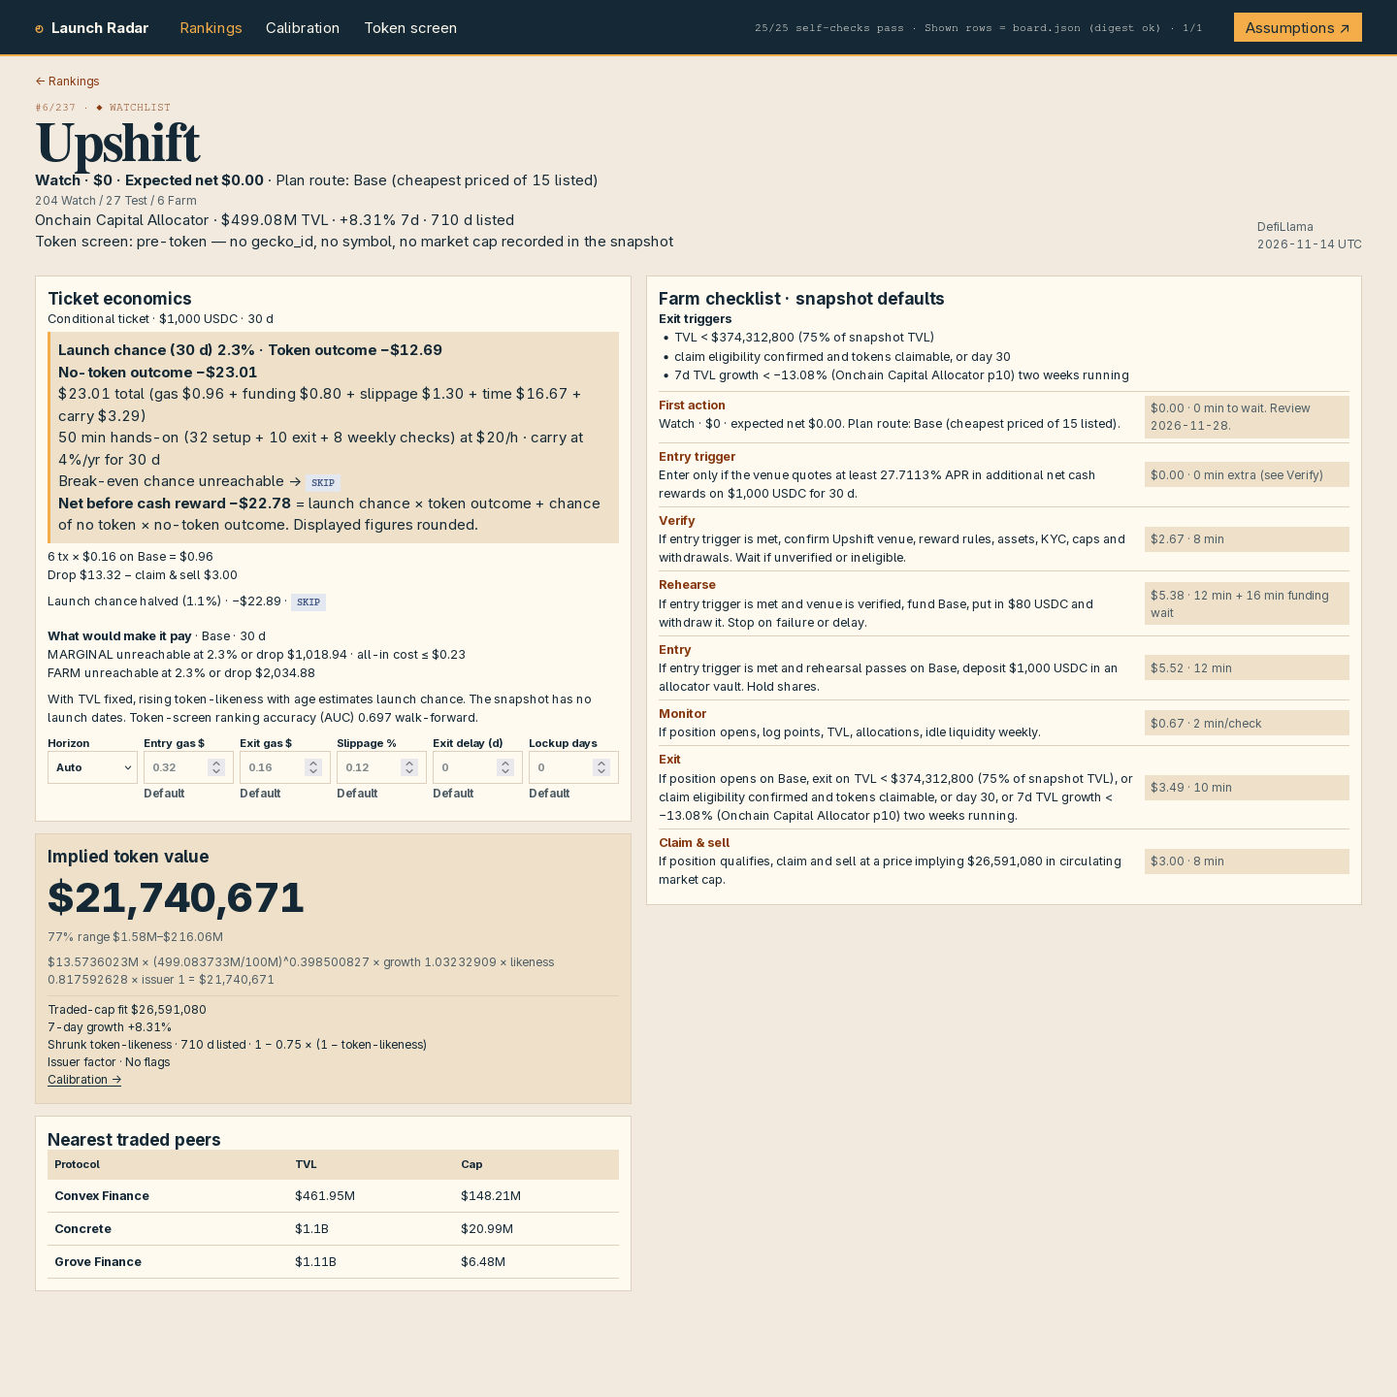
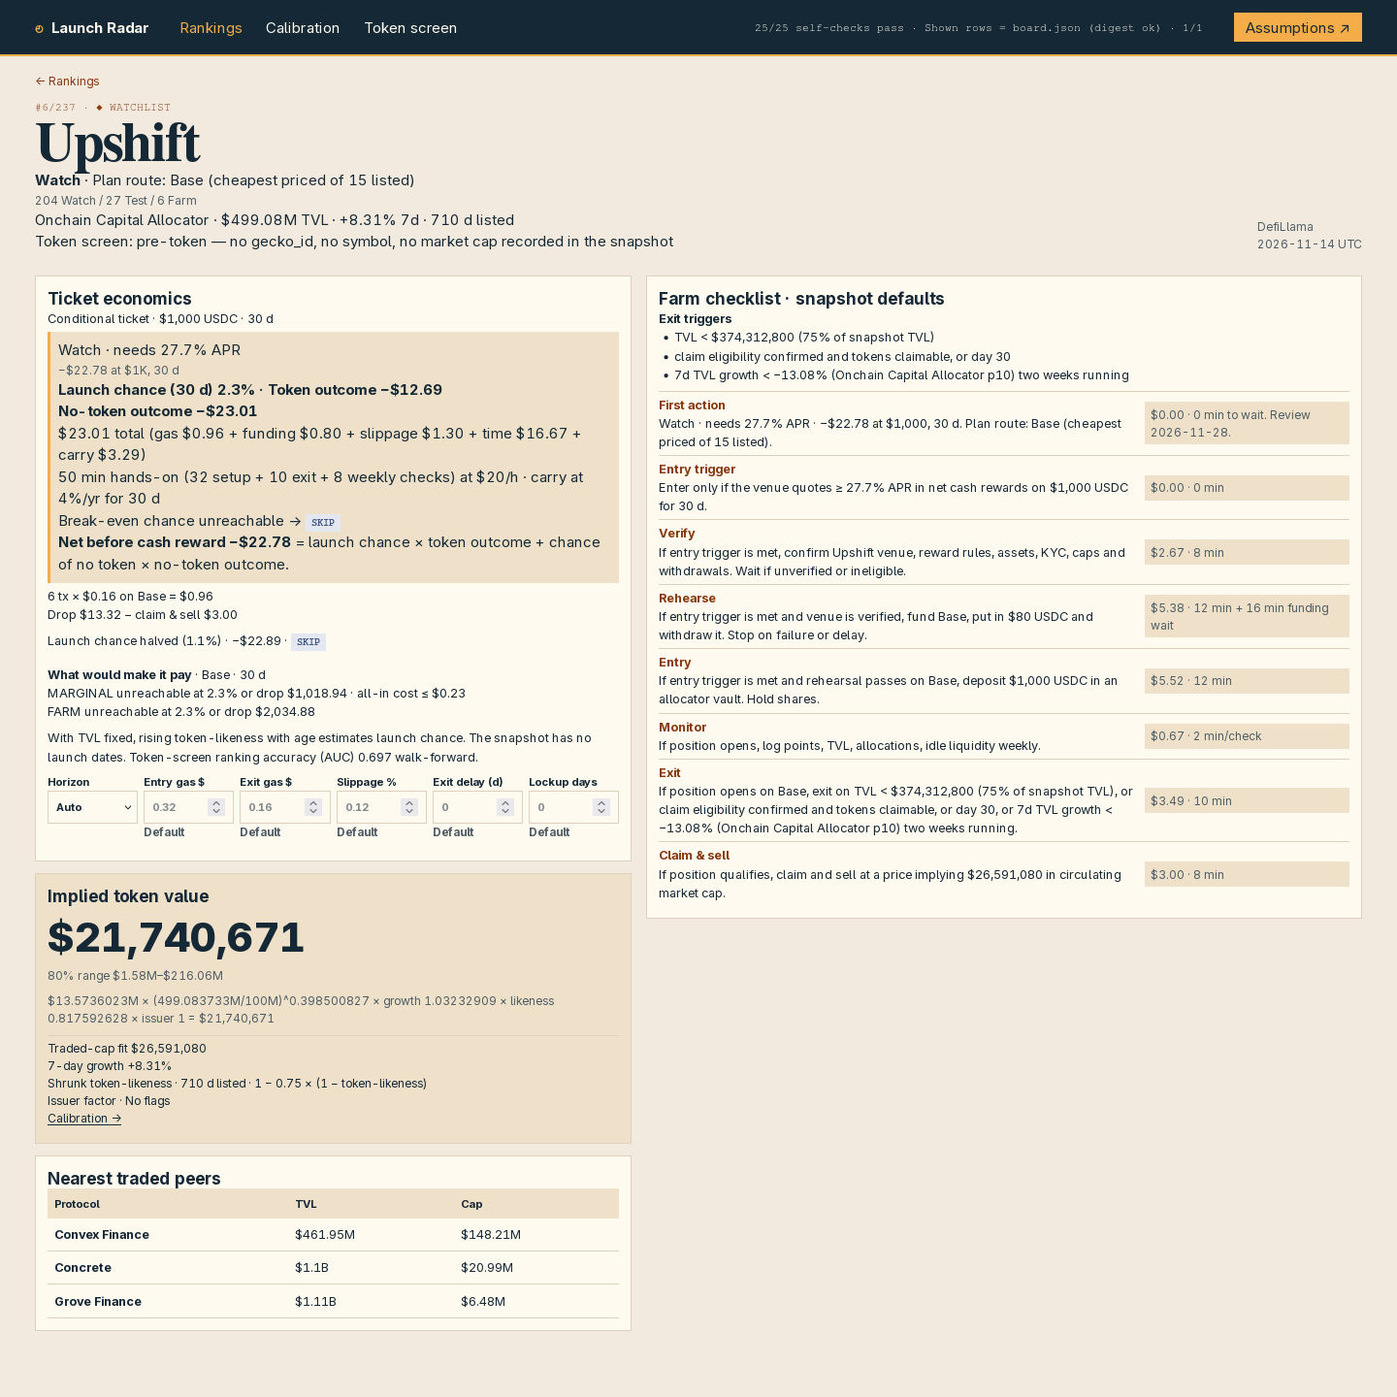
Watch rows show trigger and cost of entering now

Changed region(s): [[0.0, 0.25, 0.9688, 0.9375], [0.0625, 0.125, 0.375, 0.1562]]

diff --git a/dashboard/app.js b/dashboard/app.js
@@ -9,19 +9,17 @@ const html=(items,draw)=>items.map(draw).join(""),view=$("#view"),check=$("#chec
 	money=n=>signed(costUsd(n)),short=new Intl.NumberFormat("en-US",{style:"currency",currency:"USD",
 		notation:"compact",maximumFractionDigits:2}).format,usd=whole
 const dash="—",mult=n=>n==null?dash:n.toFixed(3)+"×",
-	sign=n=>n>0?"+":"",
-	chg=n=>n==null?dash:sign(n)+signed(n.toFixed(2))+"%",
+	chg=n=>n==null?dash:(n>0?"+":"")+signed(n.toFixed(2))+"%",
 	net=farmNet,decisionNet=n=>net(decisionUsd(n)),
 	esc=value=>String(value??"").replace(/[&<>"']/g,c=>({"&":"&amp;","<":"&lt;",">":"&gt;",'"':"&quot;","'":"&#39;"})[c])
 const {rows:rs,recs,counts:ns,verdicts,value,odds,assumptions:setup,board:{rows:board}}=model,
 	sameHash=digest(board)===boardDigest&&digest(manifest)===digest(exportManifest(board)),
 	{parameters:{horizons,riskFreeRate,hourlyUsd}}=setup,
-	auc=odds.validation,
-	showAuc=k=>auc[k].auc?.toFixed(3)??dash
+	showAuc=k=>odds.validation[k].auc?.toFixed(3)??dash
 const aucLabel="Token-screen ranking accuracy (AUC)",
 	likenessTest=`${aucLabel} ${showAuc("walk")} walk-forward`,
 	{headline,ablation,issuerNote,candidates,form,weight,ranges:{label,hits,n:rangeN}}=value,
-	rangeLabel=label==null?"Uncalibrated range":`${label}% range`,
+	rangeLabel=label==null?"Uncalibrated range":`${bandPercent}% range`,
 	groups=[["traded","traded"],["setAside","set aside"],["recorded","token, no cap"],["ranked","ranked"]],
 	choices=items=>["",...unique(items).sort()]
 const grades=keys(verdicts),boardCounts=actionCounts(verdicts),
@@ -63,7 +61,8 @@ const badge=v=>`<span class="badge ${v.toLowerCase()}">${v}</span>`,
 	pLink=(p,st)=>`<a class=protocol href="${href("detail",st,encodeURIComponent(p.slug))}">${esc(p.name)}</a>`,
 	calLink=st=>`<a class=evidence href="${href("calibration",st)}">Calibration →</a>`,
 	days=r=>r.ageDays==null?dash:integer(r.ageDays),
-	rowName=r=>esc(r.category||r.family)
+	rowName=r=>esc(r.category||r.family),
+	watchTerms=p=>watchTermsFor(p,short).join("<small>")+"</small>"
 const intro=(title,copy="",lead="",lbl="")=>`<header class=intro><div>${lbl}<h1>${title}</h1>${lead}<p>${copy}</div><small>DefiLlama<br>${esc(snap.as_of)} UTC</small></header>`,
 	missTitle="Median miss vs flat ratio",
 	panel=(kind,title,body)=>`<section class="panel ${kind}">${title?`<h2>${title}</h2>`:""}${body}</section>`,
@@ -74,7 +73,7 @@ const valueStats=`<p class=nested>Form chosen inside training only</p>
 		const {miss,flat,n}=headline[k]
 		return`<div><span>${lbl} · n=${n}</span><strong>${mult(miss)}</strong> / ${mult(flat)}${miss!==null&&miss>=flat?"<small>Flat ratio ties or wins.</small>":""}</div>`
 	})}</div>
-<p class=coverage>${rangeN?`Family holdout coverage · ${rangeLabel} (${hits}/${rangeN})`:"Range coverage unavailable"}</p>`
+<p class=coverage>${rangeN?`${rangeLabel} · Family holdout coverage ${label}% (${hits}/${rangeN})`:"Range coverage unavailable"}</p>`
 const tokenLinks=(st,separator="")=>groups.map(([k,lbl])=>
 	`<a href="${href("tokens",st,k)}"${st.route==="tokens"&&st.slug===k?' aria-current="page"':""}><b>${ns[k]}</b> ${lbl}</a>`).join(separator),
 	searchBox=st=>`<label>Search<input id=search type=search value="${esc(st.q)}" autocomplete=off></label>`,
@@ -121,8 +120,8 @@ function filtered({scope,family,chain,verdict,flag,tvl,q,sort,dir}){
 	})
 }
 const range=r=>r.map(short).join("–"),
-	valueRange=r=>`${rangeLabel} ${range(r[80])}`,
-	endpoints=rs.flatMap(({score,ranges})=>[score,...ranges[80]]),
+	valueRange=r=>`${rangeLabel} ${range(r[bandPercent])}`,
+	endpoints=rs.flatMap(({score,ranges})=>[score,...ranges[bandPercent]]),
 	logMin=log(min(...endpoints)),logSpan=log(max(...endpoints))-logMin||1,
 	barAt=n=>1+40*(log(n)-logMin)/logSpan
 function equation(r,format){
@@ -131,7 +130,7 @@ function equation(r,format){
 }
 function tableRow(r,st){
 	const {slug,score,tokenOdds,ranges,rank,plan:fp,watchlist,tvl_usd,change_7d}=r,
-		[lo,hi]=ranges[80].map(barAt)
+		[lo,hi]=ranges[bandPercent].map(barAt)
 	return`<tr data-slug="${esc(slug)}">
 <td class=rank>${rank} ${pick(r)}
 <th scope=row>${pLink(r,st)}${r.flags.length?" <span title='Issuer flag'>!</span>":""}
@@ -140,7 +139,7 @@ function tableRow(r,st){
 <td>${pct(tokenOdds,1)}<td>${short(tvl_usd)}
 <td><b class="${change_7d>0?"pos":change_7d<0?"neg":""}">${chg(change_7d)}</b>
 <td>${days(r)}
-<td>${badge(fp.verdict)}<td>${firstAction(fp,short," ")} <span class=first-net>${net(fp.net)}</span>${fp.capital?`<small>${fp.horizon} d</small>`:""}`
+<td>${badge(fp.verdict)}<td>${fp.candidate?watchTerms(fp.candidate):`${stages[fp.verdict]} ${short(fp.capital)} <b>${net(fp.net)}</b><small>${fp.horizon} d</small>`}`
 }
 function matchesExport(rank,slug,value,verdict,format){
 	const row=manifest?.[rank-1]
@@ -153,10 +152,10 @@ function verifyRows(rows,st){
 		total=rows.length,sorted=trs.length===total&&$(`[aria-sort=${ariaSort(st)}] #sort-${st.sort}`)
 			&&trs.every((tr,i)=>tr.dataset.slug===rows[i].slug)
 	const matched=count(trs,tr=>{
-		const [rank,,value,odds]=tr.cells,n=Number(rank.textContent)
+		const [rank,,value,odds]=tr.cells,n=Number(rank.textContent),{plan:p}=rs[n-1],cell=tr.lastElementChild
 		return matchesExport(n,tr.dataset.slug,value.firstElementChild.textContent,tr.querySelector(".badge")?.textContent,short)
 			&&odds.textContent===pct(board[n-1].token_odds,1)
-			&&tr.querySelector(".first-net").textContent===net(rs[n-1].plan.net)
+			&&(p.candidate?cell.innerHTML===watchTerms(p.candidate):cell.querySelector("b").textContent===net(p.net))
 	})
 	const pass=!!(sameHash&&sorted&&matched===total
 		&&$("#cover-counts").textContent===$("#rail-counts").textContent)
@@ -197,8 +196,8 @@ function drawCompare(st){
 		[cols.value[0],...rows.map(r=>usd(r.score))],
 		["First action",...rows.map(r=>firstAction(r.plan))],
 		[cols.verdict[0],...rows.map(r=>badge(r.plan.verdict))],
-		[netLabel,...rows.map(r=>net(r.plan.net))],
-		["Time / cost",...rows.map(({plan:p})=>`${p.handsOnMinutes??0} min hands-on · ${money(p.cost)}`)]
+		[netLabel,...rows.map(({plan:p})=>p.candidate?watchTerms(p.candidate):net(p.net))],
+		["Time / cost",...rows.map(({plan:p})=>p.candidate?dash:`${p.handsOnMinutes} min hands-on · ${money(p.cost)}`)]
 	]):""
 	for(const box of $$("input[name=compare]")){
 		box.checked=compared.has(+box.value)
@@ -217,7 +216,7 @@ const quoteFields=[
 	["delay","Exit delay (d)",36500],["lockup","Lockup days",36500]
 ],
 	maybeMoney=n=>n==null?"unreachable":money(n),
-	actionLine=p=>`${firstAction(p)} · ${netLabel} ${net(p.net)}`
+	actionLine=p=>firstAction(p)+(p.candidate?"":` · ${netLabel} ${net(p.net)}`)
 function cashFlows(fp,quote,action,edited=false){
 	const result=action.candidate??action
 	const {horizon,q,capital,noToken,withToken,pStar,gas,holding,drop,claimSell,verdict,net:gain}=result,
@@ -228,12 +227,13 @@ function cashFlows(fp,quote,action,edited=false){
 	return`${edited?`<p class=quote-action>With edited inputs · ${actionLine(action)}`:""}
 ${action.candidate?`<p class=conditional>Conditional ticket · ${esc(fp.quoteTicket(capital))} · ${horizon} d`:""}
 <div class=decision>
+${action.candidate?`<div class=watch-terms>${watchTerms(result)}</div>`:""}
 <p><b>Launch chance (${horizon} d) ${chance(q)} · Token outcome ${decisionNet(withToken)}</b>
 <p><b>No-token outcome ${decisionNet(noToken)}</b>
 <p>${farmCost(result)}
 <p>${farmTime(result)} at ${usd(hourlyUsd)}/h · carry at ${pct(riskFreeRate,0)}/yr for ${holding} d
 <p>Break-even chance ${breakEven(pStar)} → ${badge(verdict)}
-<p><b>${action.candidate?"Net before cash reward":netLabel} ${decisionNet(gain)}</b> = launch chance × token outcome + chance of no token × no-token outcome. Displayed figures rounded.</div>
+<p><b>${action.candidate?"Net before cash reward":netLabel} ${decisionNet(gain)}</b> = launch chance × token outcome + chance of no token × no-token outcome.</div>
 <p class=gas>${gasBasis} on ${esc(chain.name)} = ${money(gas)}
 <p>Drop ${money(drop)} − claim &amp; sell ${money(claimSell)}
 <p class=half-q>Launch chance halved (${chance(q/2)}) · ${net(half.net)} · ${badge(half.verdict)}
@@ -288,11 +288,9 @@ function calibration(){
 		table=facts(["Term",...axes],ablation.map(({term,withTerm,without})=>
 			[term,...tests.map(k=>`${mult(withTerm[k])} / ${mult(without[k])}`)]))
 	return`${intro("Trading-token calibration")}
-${inset(missTitle,valueStats+`<p>Inner splits select the form and weight.
-<p>Walk-forward by listing date. Flat uses median training cap/TVL.
-<p>Ranges use leave-one-out training cap residuals.`)}
+${inset(missTitle,valueStats+`<p>Flat uses median training cap/TVL. Ranges use leave-one-out cap residuals.`)}
 ${inset("Candidates scored on outer folds, for reference",scores," candidates")}
-${inset("Deployed terms · median miss with / without",`<p>Raw TVL for growth. Age factor omitted for age.</p>${table}`," ablation")}
+${inset("Deployed terms · median miss with / without",table," ablation")}
 ${inset(oddsLabel,`<p class=likeness>${likenessTest}. ${setup.timing}`)}`
 }
 const tokens=st=>`${intro("Token screen","Pre-token means the snapshot records no token.")}
@@ -306,9 +304,6 @@ function drawTokens(st){
 	$("#results").innerHTML=rows.length?facts("Protocol|Reason|Market cap ($)|gecko_id|Symbol|Category|Name rule hit",
 		rows.map(p=>[bySlug.has(p.slug)?pLink(p,st):esc(p.name),reasons[p.reason][1],esc(p.mcap_usd??dash),
 			field(p.gecko_id),field(p.symbol),field(p.category),field(p.nameRule)])):empty
-}
-function drawer(){
-	return`<ul><li>Issuer factor · ${issuerNote}${html(setup.notes,s=>`<li>${esc(s)}`)}</ul>`
 }
 function verifyDetail(){
 	const rank=Number($(".kicker").textContent.split("/")[0].slice(1)),saved=board[rank-1],
@@ -340,10 +335,15 @@ function render(){
 }
 
 check.title=results.map(({name,pass})=>`${name}: ${pass?"pass":"fail"}`).join("\n")
-$(".drawer").innerHTML=drawer()
+$(".drawer").innerHTML=`<ul><li>Issuer factor · ${issuerNote}${html(setup.notes,s=>`<li>${esc(s)}`)}</ul>`
 $("#open").onclick=()=>$("#assumptions").showModal()
 view.oninput=({target:el})=>{
-	if(el.id==="search") updateBoard({...readRoute(),q:el.value})
+	if(el.id==="search"){
+		const st={...readRoute(),q:el.value}
+		history.replaceState(null,"",link(st.route,st,st.route==="tokens"?st.slug:""))
+		nav(st)
+		return (st.route==="tokens"?drawTokens:drawBoard)(st)
+	}
 	const form=el.form
 	if(form?.id!=="quote") return
 	const fp=bySlug.get(form.dataset.slug).plan,quote={...fp.quote}
@@ -364,13 +364,6 @@ function nav(st){
 		a.ariaCurrent=route===current?"page":null
 	}
 }
-function updateBoard(st){
-	history.replaceState(null,"",link(st.route,st,st.route==="tokens"?st.slug:""))
-	nav(st)
-	if(st.route==="tokens") drawTokens(st)
-	else drawBoard(st)
-}
-
 view.onchange=({target:el})=>{
 	if(el.matches(".filters select")) location.hash=link("board",{...readRoute(),[el.name]:el.value})
 	if(el.name==="compare"){

diff --git a/dashboard/model.js b/dashboard/model.js
@@ -159,8 +159,8 @@ function prepare(snap){
 			recorded=hasToken(p),
 			watchlist=snap.watchlist.includes(p.slug),
 			flags=recorded?[]:issuerFlags(p,words),
-			status=p.mcap_usd>0?"traded":recorded?"recorded":product&&!watchlist?"setAside":"ranked",
-			reason=status==="traded"?"cap":status==="recorded"?"id":status==="setAside"?(wrapper?"product":"exchange"):product?"watch":"pre",
+			reason=p.mcap_usd>0?"cap":recorded?"id":product&&!watchlist?(wrapper?"product":"exchange"):product?"watch":"pre",
+			status=reasons[reason][0],
 			nameRule=[venue,receipt,...flags.filter(f=>f!=="Liquid staking/restaking")].filter(Boolean).join(" · ")
 		return{...p,family,date,ageDays,growth,flags,
 			product,productPeer:product||isLiquid||receiptId.test(gecko_id),watchlist,recorded,status,reason,nameRule,
@@ -232,8 +232,9 @@ function folds(pts,walk,warmup=A.valueWarmup){
 
 const blindTests=["loo","walk"]
 const medianMiss=es=>es.length?exp(quant(es.map(abs))):null
-const inside=(e,[lo,hi])=>lo<=e&&e<=hi
-function rangeFit(pts,form,levels=[.1,.9]){
+const inside=(e,[lo,hi])=>lo<=e&&e<=hi,
+	band=[.1,.9],bandPercent=round(100*(band[1]-band[0]))
+function rangeFit(pts,form,levels=band){
 	const errors=folds(pts).flatMap(([train,test])=>{
 		const fit=fitValue(train,form)
 		return test.map(p=>p.response-capLog(fit,p))
@@ -317,9 +318,9 @@ function valueTest(pts,recs){
 		bands=tests.family.filter(f=>f.quantiles),n=bands.flatMap(f=>f.rows).length,
 		hits=bands.reduce((sum,f)=>sum+count(f.rows,r=>inside(r[form],f.quantiles)),0),
 		label=n?round(100*hits/n):null,
-		[lo,hi,midLo,midHi]=rangeFit(pts,form,[.1,.9,.25,.75])
+		[lo,hi,midLo,midHi]=rangeFit(pts,form,[...band,.25,.75])
 	return{tests,candidates,form,winner,weight,fit,headline,ablation,issuerNote,
-		ranges:{quantiles:{80:[lo,hi],50:[midLo,midHi]},hits,label,n}}
+		ranges:{quantiles:{[bandPercent]:[lo,hi],50:[midLo,midHi]},hits,label,n}}
 }
 const confirmation=tests=>record(keys(tests),k=>outerSummary(tests[k].flatMap(f=>f.rows),"confirmed"))
 const sigmoid=x=>1/(1+exp(-limit(x,-35,35))),
@@ -403,7 +404,7 @@ function evaluateFarm(fp,cap,{horizon:h=fp.horizon,quote=fp.quote,cost=1,share=1
 		verdict=multiple<1?"SKIP":multiple>=A.farmMultiple&&!fp.capped?"FARM":"MARGINAL",
 		net=q*payoff-loss+reward,withToken=payoff-loss+reward
 	return{capital:cap,horizon:h,q,cost:loss,gas,funding,slip,timeCost,capitalCharge,holding,drop,claimSell,pStar,
-		setupMinutes,exitMinutes,checkMinutes,handsOnMinutes,noToken:reward-loss,withToken,net,multiple,verdict}
+		setupMinutes,exitMinutes,checkMinutes,handsOnMinutes,noToken:reward-loss,withToken,net,verdict}
 }
 const bestBy=k=>(a,b)=>b[k]>a[k]?b:a
 function sizeFarm(fp,quote,horizons){
@@ -417,8 +418,7 @@ function sizeFarm(fp,quote,horizons){
 }
 const chooseFarm=(fp,quote=fp.quote,h=0)=>sizeFarm(fp,quote,h?[h]:A.horizons),
 	stages={SKIP:"Watch",MARGINAL:"Test",FARM:"Farm"},
-	firstAction=({verdict,capital,horizon},format=whole,sep=" · ")=>
-		stages[verdict]+(capital?sep:" · ")+format(capital)+(capital&&sep!==" "?sep+horizon+" d":""),
+	firstAction=({verdict,capital,horizon})=>stages[verdict]+(capital?` · ${whole(capital)} · ${horizon} d`:""),
 	actionCounts=counts=>keys(stages).map(v=>counts[v]+" "+stages[v]).join(" / ")
 function targetsFor({q,pStar,cost,drop,claimSell},{slippage}){
 	slippage/=100
@@ -435,11 +435,12 @@ const costTime=(min,fees=0)=>`${costUsd(wage(min)+fees)} · ${min} min`,
 		`${handsOnMinutes} min hands-on (${setupMinutes} setup + ${exitMinutes} exit + ${checkMinutes} weekly checks)`,
 	farmCost=({cost,gas,funding,slip,timeCost,capitalCharge})=>
 		`${costUsd(cost)} total (gas ${costUsd(gas)} + funding ${costUsd(funding)} + slippage ${costUsd(slip)} + time ${costUsd(timeCost)} + carry ${costUsd(capitalCharge)})`,
-	farmNet=n=>(n<0?"−":n>0?"+":"")+costUsd(abs(n))
-function entryTrigger({capital,horizon,net},ticketFor){
-	const apr=ceil(-net/(capital*horizon/A.year)*1e6)/1e4
-	return{horizon,apr,rule:`the venue quotes at least ${apr.toFixed(4)}% APR in additional net cash rewards on ${ticketFor(capital)} for ${horizon} d`}
-}
+	farmNet=n=>(n<0?"−":n>0?"+":"")+costUsd(abs(n)),
+	entryApr=({capital,horizon,net})=>-net/(capital*horizon/A.year)*100,
+	aprLabel=apr=>apr.toFixed(1)+"% APR",
+	watchTermsFor=(p,format=whole)=>[`Watch · needs ${aprLabel(entryApr(p))}`,`${farmNet(p.net)} at ${format(p.capital)}, ${p.horizon} d`],
+	actionTerms=p=>p.candidate?watchTermsFor(p.candidate).join(" · "):
+		`${firstAction(p)} · expected net ${farmNet(p.net)}`
 function farmPlan(p,review,curve,exitGrowth){
 	const {name:protocol,category,family,website,url,tvl_usd:tvl}=p,[actions,bps,entryMins,...base]=mechanisms[family],
 		[verb,entry,monitor]=category?.endsWith("Bridge")?plays.Bridge:hasOwn(plays,category)?plays[category]:base,
@@ -456,7 +457,8 @@ function farmPlan(p,review,curve,exitGrowth){
 			competingTvl:tvl*A.competingTvlShare,conditionalValue:p.launchValue*p.haircut,
 			setupMinutes:verify+prep+entryMins,exitMinutes,capped:!!p.flags.length},
 		result=chooseFarm(fp),priced=result.candidate??result,
-		{capital:cap,horizon:h}=priced,trigger=result.candidate?entryTrigger(priced,ticketFor):null,
+		{capital:cap,horizon:h}=priced,apr=result.candidate?entryApr(priced):null,
+		trigger=apr===null?null:{apr,rule:`the venue quotes ≥ ${aprLabel(apr)} in net cash rewards on ${ticketFor(cap)} for ${h} d`},
 		route=`Plan route: ${name} (cheapest priced of ${chains.length} listed)`,
 		gate=trigger?"If entry trigger is met":"If eligible",
 		exits=[
@@ -466,9 +468,9 @@ function farmPlan(p,review,curve,exitGrowth){
 		weekly=costTime(weeklyMinutes)+"/check",site=website||url
 	if(exitGrowth!=null) exits.push(`7d TVL growth < ${exitGrowth.toFixed(2)}% (${category} p10) two weeks running`)
 	const steps=[
-		["First action",`${firstAction(result)} · expected net ${farmNet(result.net)}. ${route}.`,
+		["First action",`${actionTerms(result)}. ${route}.`,
 			trigger?`${costUsd(0)} · 0 min to wait. Review ${review}.`:`${farmCost(priced)} · ${farmTime(priced)}`],
-		["Verify",`${trigger?"If entry trigger is met, confirm":"Confirm"} ${protocol} venue, reward rules, assets, KYC, caps and withdrawals. Wait if unverified or ineligible.${site?" "+site:""}`,costTime(verify)],
+		["Verify",`${trigger?gate+", confirm":"Confirm"} ${protocol} venue, reward rules, assets, KYC, caps and withdrawals. Wait if unverified or ineligible.${site?" "+site:""}`,costTime(verify)],
 		["Rehearse",`${gate} and venue is verified, fund ${name}, put in ${ticketFor(testUsd)} and withdraw it. Stop on failure or delay.`,
 			`${costTime(prep,testFees)} + ${2*bridgeMinutes} min funding wait`],
 		["Entry",`${gate} and rehearsal passes on ${name}, ${verb} ${ticketFor(cap)} ${entry}.`,
@@ -479,7 +481,7 @@ function farmPlan(p,review,curve,exitGrowth){
 			costTime(claimMinutes,priced.claimSell-wage(claimMinutes))]
 	]
 	if(trigger) steps.splice(1,0,["Entry trigger",
-		`Enter only if ${trigger.rule}.`,costTime(0)+" extra (see Verify)"])
+		`Enter only if ${trigger.rule}.`,costTime(0)])
 	return{...fp,...result,trigger,route,quoteTicket:ticketFor,steps,exits,transactions,stress:{
 		doubleCost:trigger?result:evaluateFarm(fp,cap,{horizon:h,cost:A.stressCost}),
 		halfShare:trigger?result:evaluateFarm(fp,cap,{horizon:h,share:A.stressShare})
@@ -563,16 +565,15 @@ function selfChecks({rows:rs,board,counts,recs,verdicts,stress,calibration,value
 		"one first action":plans.every((p,i)=>{
 			const next=chooseFarm(p),first=board.rows[i].farm_steps[0]
 			return p.verdict===next.verdict&&p.capital===next.capital&&p.horizon===next.horizon&&p.net===next.net
-				&&first.startsWith(`${firstAction(p)} · expected net ${farmNet(p.net)}.`)
+				&&first.startsWith(actionTerms(p)+".")
 		}),
 		"action counts":same(verdicts,tally(plans,p=>p.verdict))&&values(verdicts).reduce((a,b)=>a+b,0)===rs.length,
 		"Watch conditional entry":plans.filter(p=>p.verdict==="SKIP").every(p=>
 			p.steps.slice(2).every(([,body])=>/^If (entry trigger is met|position )/.test(body))),
 		"Watch trigger replay":plans.filter(p=>p.verdict==="SKIP").every(p=>{
-			const {apr,rule,horizon}=p.trigger,{capital,net:before}=p.candidate,
-				quoted=Number(rule.match(/([\d.]+)% APR/)?.[1]),
-				{net}=evaluateFarm(p,capital,{horizon,apr:quoted})
-			return p.steps[1][1].includes(rule)&&apr===quoted&&before<0&&net>=-1e-8&&net<=1
+			const {apr,rule}=p.trigger,{capital,horizon,net:before}=p.candidate,
+				{net}=evaluateFarm(p,capital,{horizon,apr})
+			return p.steps[1][1].includes(rule)&&rule.includes(aprLabel(apr))&&before<0&&close(net,0)
 		}),
 		"hands-on total":[...priced,...plans.flatMap(p=>values(p.stress).filter(s=>s.capital))].every(p=>
 			p.handsOnMinutes===p.setupMinutes+p.exitMinutes+p.checkMinutes&&p.checkMinutes===weeks(p.horizon)*A.weeklyMinutes),
@@ -616,7 +617,7 @@ function buildModel(snap){
 	for(const p of rs){
 		p.ranges=record(keys(quantiles),k=>quantiles[k].map(q=>p.score*exp(q)))
 		const fp=p.plan
-		p.rangeFarm=fp.capital?p.ranges[80].map(v=>evaluateFarm(fp,fp.capital,{share:v/p.score})):[]
+		p.rangeFarm=fp.capital?p.ranges[bandPercent].map(v=>evaluateFarm(fp,fp.capital,{share:v/p.score})):[]
 	}
 	const watched=rs.filter(p=>p.watchlist),
 		counts={...record(statuses,k=>groups[k]?.length??0),total:recs.length,watchlistCovered:watched.length,
@@ -633,9 +634,8 @@ const statuses=["traded","recorded","setAside","ranked"],
 		pre:["ranked","Pre-token"],watch:["ranked","Watchlist exception"]},
 	timing="With TVL fixed, rising token-likeness with age estimates launch chance. The snapshot has no launch dates."
 const settings={parameters:A,timing,
-	notes:[timing,"Missing listing age uses the median.",
-		`Tests cap at ${whole(A.capitalLadder.at(-2))}. Farms require expected token proceeds of ${A.farmMultiple}× cost and clear issuer flags.`,
-		`Rewards assume ${pct(A.depositorShare,0)} for depositors; ${pct(A.competingTvlShare,0)} of TVL competes.`,
+	notes:[`Test cap ${whole(A.capitalLadder.at(-2))}. Farm requires ${A.farmMultiple}× cost in expected proceeds and no flags.`,
+		`Depositors get ${pct(A.depositorShare,0)} of rewards. ${pct(A.competingTvlShare,0)} of TVL competes.`,
 		"Excludes yield, taxes and price moves."]}
 if(typeof module==="object") module.exports={buildModel,boardChecks,selfChecks,boardRows,digest,exportManifest,
 	evaluateFarm,chooseFarm,firstAction,actionCounts,forms}

diff --git a/dashboard/style.css b/dashboard/style.css
@@ -43,7 +43,7 @@ small{color:#4f5e66}
 #token-groups a,.evidence{text-decoration:underline}
 #token-groups [aria-current]{font-weight:700}
 .readings,.board,.detail{gap:1rem}
-:not(strong)>small,.readings span,svg,.back{display:block}
+:not(strong)>small,.readings span,.back{display:block}
 .misses strong{font-size:1.4rem}
 small,.sources,.rail,.back,.kpi{font-size:.8rem}
 .valuation,.decision,.steps small,thead,.rank{background:var(--wash)}
@@ -77,11 +77,10 @@ thead{font-size:.75rem}
 .value{position:relative}
 .value b{font-size:1rem}
 .value .equation{position:absolute;left:4px;bottom:2px;font-size:.75rem}
-.range{width:42px;height:8px;margin-left:4px;vertical-align:middle;background:var(--wash)}
+.range{display:inline-block;width:42px;height:8px;margin-left:4px;vertical-align:middle;background:var(--wash)}
 .range path{stroke:var(--ink);stroke-width:2}
 .range path:first-child{stroke:var(--signal);stroke-width:4}
-.range{display:inline-block}
-.first-net{font-weight:700;padding-left:2px}
+.ranks td:last-child b{padding-left:2px}
 input[name=compare]{vertical-align:middle;margin:0 0 0 4px}
 tbody tr{border-bottom:var(--line)}
 .protocol,.amount{font-weight:750}
